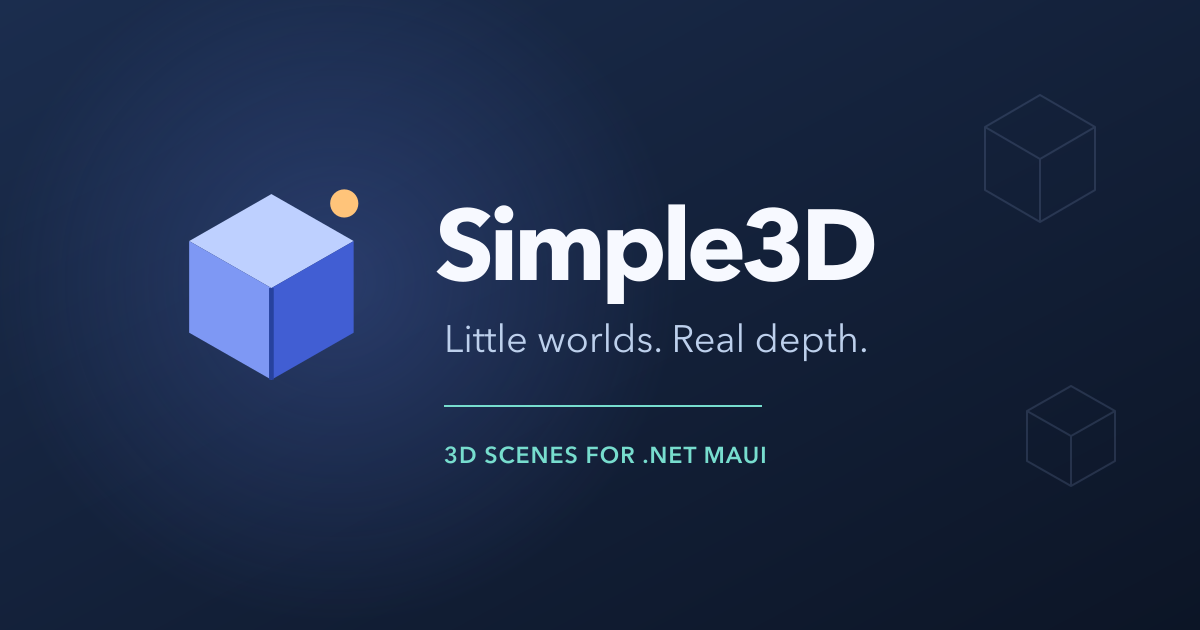
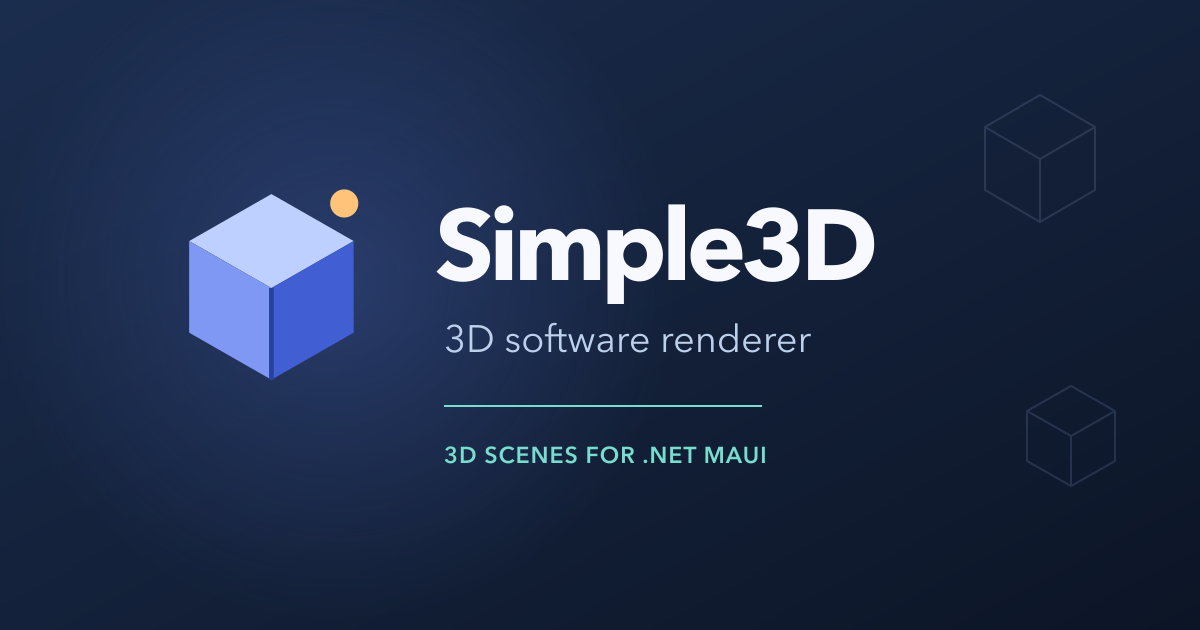
Use technical presentation and order examples by API complexity

Changed region(s): [[0.37, 0.5127, 0.7092, 0.573]]

diff --git a/tests/Simple3D.Core.Tests/CoreRegressionTests.cs b/tests/Simple3D.Core.Tests/CoreRegressionTests.cs
@@ -690,7 +690,7 @@ internal static class CoreRegressionTests
     private static void BatteryStorageAnimation()
     {
         var sample = DemoScenes.RegressionScenes.SingleOrDefault(scene => scene.Name == "Battery Storage")
-            ?? throw new InvalidOperationException("Battery Storage showcase is missing");
+            ?? throw new InvalidOperationException("Battery Storage regression scene is missing");
         var cabinets = sample.Scene.Shapes.Single(shape => shape.Name == "Battery cabinets");
         var colors = new HashSet<uint>();
         var heights = new List<float>();
@@ -719,7 +719,7 @@ internal static class CoreRegressionTests
     private static void GantryCraneAnimation()
     {
         var sample = DemoScenes.RegressionScenes.SingleOrDefault(scene => scene.Name == "Gantry Crane")
-            ?? throw new InvalidOperationException("Gantry Crane showcase is missing");
+            ?? throw new InvalidOperationException("Gantry Crane regression scene is missing");
         var structure = sample.Scene.Shapes.Single(shape => shape.Name == "Gantry structure");
         var positions = new List<Vector3>();
         for (var step = 0; step <= 100; step++)

diff --git a/samples/Simple3D.Shared/Telemetry.cs b/samples/Simple3D.Shared/Telemetry.cs
@@ -22,7 +22,7 @@ public static partial class DemoScenes
                 bars[i] = Shape.Box(color).Named($"Sample {i + 1}: {height:0.00}")
                     .Scaled(.56f, height, .56f).At((i - 2) * .78f, height / 2, 0);
             }
-            return Shape.Group(bars).Named("Live samples");
+            return Shape.Group(bars).Named("Synthetic samples");
         }
         var barGroup = BarsAt(0);
         scene.Add(barGroup);
@@ -30,7 +30,7 @@ public static partial class DemoScenes
         scene.AddLabel(new("5 SAMPLES / 0–2.5", new(-1.7f, 2.75f, 0), 0xFFE4ECFF));
         var camera = new Camera(6, .45f, .32f) { Projection = CameraProjection.Orthographic };
         camera.FitToScene(scene, 4f / 3);
-        return new("Telemetry", "Watch five live bars change height and color within their scale.", scene, camera,
+        return new("Telemetry", "Five synthetic samples mapped to bar height and color in an orthographic chart.", scene, camera,
             AnimateNode(scene, barGroup, BarsAt));
     }
 

diff --git a/samples/Simple3D.Shared/DemoScenes.cs b/samples/Simple3D.Shared/DemoScenes.cs
@@ -9,9 +9,9 @@ public sealed record DemoScene(string Name, string Description, Scene Scene, Cam
 /// <summary>Shared scene factories for the app, examples and documentation images.</summary>
 public static partial class DemoScenes
 {
-    /// <summary>Creates independent examples of product, scientific, data and spatial illustrations.</summary>
+    /// <summary>Creates examples progressing from primitives and data updates to meshes, hierarchy and linked motion.</summary>
     public static IReadOnlyList<DemoScene> All =>
-        [Equipment(), RobotArm(), Telemetry(), Surface(), GantryCrane()];
+        [Equipment(), Telemetry(), Surface(), RobotArm(), GantryCrane()];
 
     private static Action<float> AnimateNode(Scene scene, Shape initial, Func<float, Shape> atTime)
     {

diff --git a/samples/Simple3D.Demo/GalleryPage.cs b/samples/Simple3D.Demo/GalleryPage.cs
@@ -23,7 +23,7 @@ public sealed class GalleryPage : ContentPage
         BackgroundColor = Color.FromArgb("#0D1322");
         var title = new Label { Text = "Simple3D", FontSize = 34, FontAttributes = FontAttributes.Bold,
             TextColor = Colors.White };
-        var subtitle = new Label { Text = "Little worlds, a few lines of C#.", FontSize = 16,
+        var subtitle = new Label { Text = "3D software renderer for .NET MAUI", FontSize = 16,
             TextColor = Color.FromArgb("#B7C6E2") };
         var scenes = new HorizontalStackLayout { Spacing = 8 };
         foreach (var sample in _scenes)

diff --git a/samples/Simple3D.Shared/GantryCrane.cs b/samples/Simple3D.Shared/GantryCrane.cs
@@ -36,7 +36,7 @@ public static partial class DemoScenes
         scene.AddLabel(new("GANTRY / TRAVERSE + HOIST", new(-1.6f, 2.12f, 0), 0xFFE4ECFF));
         var camera = new Camera(6, .5f, .4f);
         camera.FitToScene(scene, 4f / 3);
-        return new("Gantry Crane", "Inspect a moving bridge and trolley. The hoist raises and lowers a load while its cable stays attached.",
+        return new("Gantry Crane", "A moving carriage and hoist share a transform while the gantry stays fixed.",
             scene, camera, AnimateNode(scene, carriage, TrolleyAt));
     }
 

diff --git a/samples/Simple3D.Shared/Surface.cs b/samples/Simple3D.Shared/Surface.cs
@@ -31,7 +31,7 @@ public static partial class DemoScenes
         scene.AddLabel(new("INDEXED MESH · 512 TRIANGLES", new(0, .8f, 0), 0xFFE4ECFF));
         var camera = new Camera(5, .55f, .65f);
         camera.FitToScene(scene, 4f / 3);
-        return new("Surface", "Follow a sample point across a procedural wave mesh.", scene, camera,
+        return new("Surface", "An indexed surface mesh with a moving sample marker.", scene, camera,
             AnimateNode(scene, samplePoint, time =>
             {
                 var x = 1.15f * MathF.Sin(time * 1.25f);

diff --git a/samples/Simple3D.Shared/Equipment.cs b/samples/Simple3D.Shared/Equipment.cs
@@ -20,7 +20,7 @@ public static partial class DemoScenes
         scene.AddLabel(new("OUTPUT", new(1.2f, .9f, 0), 0xFFE4ECFF));
         var camera = new Camera(5.5f, .55f, .32f);
         camera.FitToScene(scene, 4f / 3);
-        return new("Equipment", "Inspect the motor and animate its output vector.", scene, camera,
+        return new("Equipment", "Grouped primitives, labels and an animated output vector.", scene, camera,
             AnimateNode(scene, axis, time => axis.Rotated(0, .42f * MathF.Sin(time * 1.7f), 0)));
     }
 

diff --git a/samples/Simple3D.Shared/RobotArm.cs b/samples/Simple3D.Shared/RobotArm.cs
@@ -30,7 +30,7 @@ public static partial class DemoScenes
         scene.AddLabel(new("TWO JOINTS / PICK A LINK", new(-1.3f, 1.65f, 0), 0xFFE4ECFF));
         var camera = new Camera(5, .55f, .25f);
         camera.FitToScene(scene, 4f / 3);
-        return new("Robot Arm", "Inspect linked parts as the shoulder and elbow articulate.", scene, camera,
+        return new("Robot Arm", "Nested groups with articulated shoulder and elbow joints.", scene, camera,
             AnimateNode(scene, arm, ArmAt));
     }
 

diff --git a/docs/site/examples.md b/docs/site/examples.md
@@ -1,22 +1,24 @@
 # Five examples to learn from
 
-Start with Equipment and read one factory at a time. Each file creates a scene, fits its camera and supplies a time-based animation. The gallery adds orbit, zoom and selection through the same `SceneView` you use in an app.
+Create the two-shape scene in [Getting started](getting-started.md) first, then follow these five examples in order. Each adds a different API concept, progressing from primitives to a mechanism with coordinated moving parts. Each file creates a scene, fits its camera and supplies a time-based animation. The gallery adds orbit, zoom and selection through the same `SceneView` you use in an app.
 
 | Example and source | What to learn | Motion |
 | --- | --- | --- |
 | [Equipment](https://github.com/mariusmuntean/Simple3D-Maui/blob/main/samples/Simple3D.Shared/Equipment.cs) | Named primitives, groups, arrows and labels | Output vector sweeps |
-| [Robot Arm](https://github.com/mariusmuntean/Simple3D-Maui/blob/main/samples/Simple3D.Shared/RobotArm.cs) | Nested transforms and selectable joints | Shoulder and elbow articulate |
 | [Telemetry](https://github.com/mariusmuntean/Simple3D-Maui/blob/main/samples/Simple3D.Shared/Telemetry.cs) | Orthographic camera and data-driven height and color | Bars change within a fixed scale |
 | [Surface](https://github.com/mariusmuntean/Simple3D-Maui/blob/main/samples/Simple3D.Shared/Surface.cs) | Indexed mesh construction and depth picking | Sample marker follows a wave |
+| [Robot Arm](https://github.com/mariusmuntean/Simple3D-Maui/blob/main/samples/Simple3D.Shared/RobotArm.cs) | Nested transforms and selectable joints | Shoulder and elbow articulate |
 | [Gantry Crane](https://github.com/mariusmuntean/Simple3D-Maui/blob/main/samples/Simple3D.Shared/GantryCrane.cs) | Linked motion with fixed structure and reusable geometry | Carriage traverses while the hoist lifts its load |
 
 ![Equipment](images/Equipment.png)
-![Robot Arm](images/Robot%20Arm.png)
 ![Telemetry](images/Telemetry.png)
 ![Surface](images/Surface.png)
+![Robot Arm](images/Robot%20Arm.png)
 ![Gantry Crane](images/Gantry%20Crane.png)
 
 Telemetry and Gantry Crane use synthetic values, not live sensors or physical simulations. In an application, replace the time functions with measured values. Reuse immutable meshes and keep child order stable so selection follows the same logical part after replacement. The small shared helpers live in [DemoScenes.cs](https://github.com/mariusmuntean/Simple3D-Maui/blob/main/samples/Simple3D.Shared/DemoScenes.cs).
+
+Robot Arm demonstrates child transforms relative to a parent. Gantry Crane combines group translation with state-dependent part dimensions: the cable changes length as the load rises. They teach different uses of the same hierarchy API. The examples share their animation and color helpers rather than repeating them in each file.
 
 The [gallery page](https://github.com/mariusmuntean/Simple3D-Maui/blob/main/samples/Simple3D.Demo/GalleryPage.cs) owns the UI timer, lowers render resolution during animation and pauses on backgrounding. It targets 60 updates per second; this is not a displayed-frame-rate guarantee. Press Animate after returning to the app.
 

diff --git a/README.md b/README.md
@@ -2,7 +2,7 @@
 
 ![Simple3D](docs/site/images/brand-banner.svg)
 
-Small 3D scenes for .NET 10 MAUI on iOS, Android and Mac Catalyst. Build a scene from shapes or an indexed mesh, display it in a `SceneView`, and let users orbit, zoom and select parts. Use it for equipment diagrams, data displays, scientific models and other small illustrations.
+A 3D software renderer for .NET 10 MAUI on iOS, Android and Mac Catalyst. Build a scene from shapes or an indexed mesh, display it in a `SceneView`, and let users orbit, zoom and select parts. Use it for equipment diagrams, data displays, scientific models and other small illustrations.
 
 ![Equipment scene](docs/site/images/Equipment.png)
 
@@ -38,7 +38,7 @@ Core colors use opaque `0xFFRRGGBB`; angles use radians. Shape transforms return
 
 Open [Simple3D.sln](Simple3D.sln) in Rider or another MAUI IDE with .NET 10 and the target's MAUI workload. Choose **Simple3D.Demo** and an Android device, iOS simulator or Mac Catalyst target. Apple targets require macOS and a workload-compatible Xcode.
 
-Start with [Equipment](samples/Simple3D.Shared/Equipment.cs), then explore [Robot Arm](samples/Simple3D.Shared/RobotArm.cs) for hierarchy, [Telemetry](samples/Simple3D.Shared/Telemetry.cs) for changing data, [Surface](samples/Simple3D.Shared/Surface.cs) for indexed meshes, and [Gantry Crane](samples/Simple3D.Shared/GantryCrane.cs) for linked motion. Each file contains one scene and its animation. The gallery pauses in the background; press Animate to resume.
+The five examples progress from [Equipment](samples/Simple3D.Shared/Equipment.cs) for primitives and labels, through [Telemetry](samples/Simple3D.Shared/Telemetry.cs) for data updates, [Surface](samples/Simple3D.Shared/Surface.cs) for indexed meshes and [Robot Arm](samples/Simple3D.Shared/RobotArm.cs) for hierarchy, to [Gantry Crane](samples/Simple3D.Shared/GantryCrane.cs) for coordinated motion. Each file contains one scene and its animation. The gallery pauses in the background; press Animate to resume.
 
 ## Documentation
 
@@ -49,7 +49,7 @@ Read the [documentation site](https://mariusmuntean.github.io/Simple3D-Maui/), i
 - [Scenes and cameras](docs/site/scenes-and-cameras.md)
 - [Meshes and groups](docs/site/meshes-and-groups.md)
 - [Interaction and selection](docs/site/interaction-and-picking.md)
-- [Showcases](docs/site/examples.md)
+- [Examples](docs/site/examples.md)
 - [Rendering limits](docs/site/rendering-limits.md)
 
 The software renderer supports opaque triangles, depth-aware picking and fixed directional flat lighting. It has no transparency, texture mapping or shadows. Labels overlay geometry. Viewport and work budgets bound rendering costs; frame rate depends on scene complexity, viewport and device. See the limits page before choosing it for your application.

diff --git a/docs/PACKAGE-README.md b/docs/PACKAGE-README.md
@@ -44,4 +44,4 @@ Content = view;
 
 Drag to orbit, pinch to zoom and tap to select. Use `IsInteractive = false` for display-only content. Keep scene and camera mutations on the UI thread. Rendering uses opaque triangles and fixed directional lighting; image textures, transparency and shadows are unsupported.
 
-Read the [setup, showcases, limits and API documentation](https://mariusmuntean.github.io/Simple3D-Maui/). Source and the interactive gallery are in the [repository](https://github.com/mariusmuntean/Simple3D-Maui). Licensed under MIT, copyright Marius Muntean.
+Read the [setup, examples, limits and API documentation](https://mariusmuntean.github.io/Simple3D-Maui/). Source and the interactive gallery are in the [repository](https://github.com/mariusmuntean/Simple3D-Maui). Licensed under MIT, copyright Marius Muntean.

diff --git a/docs/site/getting-started.md b/docs/site/getting-started.md
@@ -36,4 +36,4 @@ For simple animation, replace immutable shapes on the UI thread. Each replacemen
 
 Colors passed to Core use opaque `0xAARRGGBB` values. `SceneView.SceneBackgroundColor` accepts a MAUI `Color` and must be opaque. Angles are radians. Shape transforms return copies; adding a changed shape requires `Scene.Replace` or `Scene.Add`. `Scene.Changed` and `Camera.Changed` trigger a redraw automatically. Keep scene and camera mutations on the UI thread.
 
-Run the demo app or explore the [showcases](examples.md). On Mac Catalyst, use the .NET installation with MAUI workloads and a compatible Xcode.
+Run the demo app or explore the [examples](examples.md). On Mac Catalyst, use the .NET installation with MAUI workloads and a compatible Xcode.
